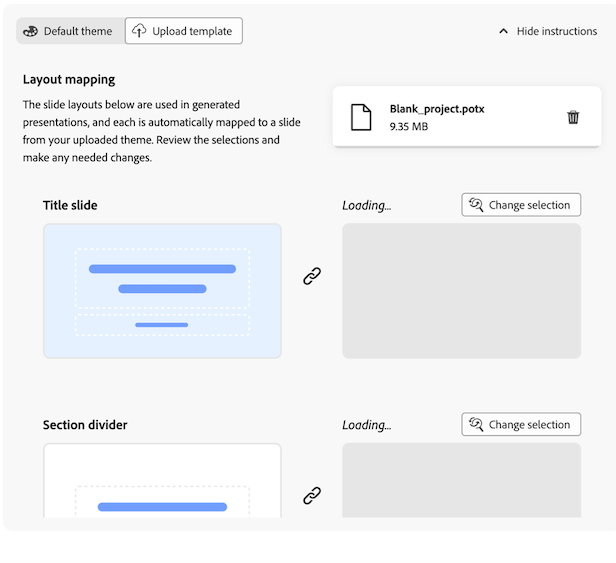
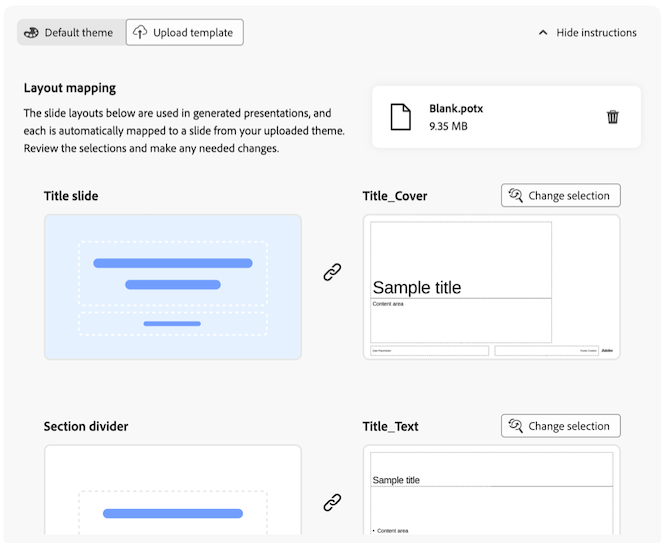
update

diff --git a/help/analysis-workspace/curate-share/generate-slides.md b/help/analysis-workspace/curate-share/generate-slides.md
@@ -9,15 +9,15 @@ hidefromtoc: yes
 ---
 # Data storytelling: Generate slide presentations from Workspace reports {#generate-powerpoint}
 
-Users with [the necessary permissions](#permission-requirements-to-generate-slides) can automatically generate .pptx presentations from Analysis Workspace projects. When generating these slide presentations, Customer Journey Analytics automatically creates a story from your data by identifying key insights and converting them into stakeholder-ready slides. 
+Users with [the necessary permissions](#permission-requirements-to-generate-slides) can automatically generate .pptx presentations based on Analysis Workspace projects. When generating these slide presentations, Customer Journey Analytics automatically creates a story from your data by identifying key insights and converting them into stakeholder-ready slides. 
 
-This automatically generated data story reduces the time, effort, and expertise required to surface findings from a Workspace project. Analysts can focus more on data exploration, while allowing Customer Journey Analytics to build and format the executive narrative and communicate the business impact to stakeholders.
+This generated data story reduces the time, effort, and expertise required to surface findings from a Workspace project. Analysts can focus more on data exploration, while allowing Customer Journey Analytics to build and format the executive narrative and communicate the business impact to stakeholders.
 
 ## Understand data stories in slide presentations
 
-Analysis Workspace uses generative AI to create a narrative that is based on your Workspace data, in a slide presentation format. 
+A **data story** is the narrative that Customer Journey Analytics creates based on your Workspace data. Using generative AI, Customer Journey Analytics identifies important themes within the panels and visualizations that you choose to include in your slide presentation. It generates insights, then goes through a deduplication and scoring process to identify a subset of insights to use to create the data story. 
 
-The following sections describe the additional value that data stories provide, the necessary elements of a project that help shape the narrative, and key elements that are included in each presentation output. 
+The following sections describe the additional value that data stories provide, the necessary elements of a project that help shape the narrative, and key elements that are included in the .pptx presentation output. 
 
 ### Additional value provided by data stories
 
@@ -31,7 +31,7 @@ Data stories supplement an analysis for a given Workspace project by:
 
 * Offering guidance on whether data is good or bad in a given context
 
-* Assessing whether certain variables are being under-valued or over-valued. 
+* Assessing whether certain variables are being under-valued or over-valued 
 
 * Calling out hidden trends, anomalies, and other contributing factors
 
@@ -43,7 +43,7 @@ Analysis Workspace creates data stories by considering the following project ele
 
 * Inter-dimension and inter-metric relationships
 
-* The individual elements that form the basis of the analysis: dimensions, metrics, filters, freeform table structure, visualizations and panels 
+* The individual elements that form the basis of the analysis (dimensions, metrics, filters, freeform table structure, visualizations, and panels) 
 
 * The names given to the panels, tables and visualizations
 
@@ -53,15 +53,11 @@ Analysis Workspace creates data stories by considering the following project ele
 
 ### Presentation elements of a data story
 
-Data stories consist of an executive summary slide, detail slides, and section dividers.
+Data stories consist of a title slide, executive summary slide, detail slides, and section dividers.
 
-Customer Journey Analytics identifies important themes within the panels and visualizations that you choose to include in your presentation. These themes comprise the overarching narrative, or data story, that is created.  
+**Title slide:** Shows the title and presenter name that you specify. Information shows in the speaker notes that describes the process of how the theme and narrative were created, how many insights were generated and used, and which panels were used.
 
-To create the theme and narrative, Customer Journey Analytics generates insights, then uses a subset of those insights after a deduplication and scoring process. 
-
-**Executive summary:** Prioritizes the highest-value insights and crafts an overarching story between 1 and 5 sentences in length.
-
-**Title slide:** Shows the title that you specify. Information is shown in the speaker notes area describing how 
+**Executive summary:** Prioritizes the highest-value insights and crafts an overarching story that is between 1 and 5 sentences in length.
 
 **Detail slides:** Generates insights related to any tables, panels, or visualizations in a Workspace project. Insights consist of trends, seasonalities, anomalies, and correlations.
 
@@ -101,12 +97,12 @@ To create the theme and narrative, Customer Journey Analytics generates insights
    |---------|----------|
    | **[!UICONTROL Cover title]** | Specify a title for the presentation. This title appears on the title slide of the presentation.  | 
    | **[!UICONTROL Include presenter name]** | Specify the name of the presenter. This name appears on the title slide of the presentation, below the cover title. | 
-   | **[!UICONTROL Panels and visualizations to include]** | Choose the panels and visualization you want to include in the presentation. You can include up to 50 visualizations.<p>Most panels and visualizations are supported. For information about unsupported panels and visualization, see [Unsupported project elements and features](#unsupported-project-elements-and-features).</p> | 
-   | **[!UICONTROL Panel and visualization descriptions]** | | 
-   | **[!UICONTROL Annotations]** | | 
+   | **[!UICONTROL Panels and visualizations to include]** | Choose the panels and visualization that you want to include in the presentation. You can include up to 50 visualizations.<p>Most panels and visualizations are supported. For information about unsupported panels and visualization, see [Unsupported project elements and features](#unsupported-project-elements-and-features).</p> | 
+   | **[!UICONTROL Panel and visualization descriptions]** | Choose whether to include panel and visualization descriptions in your generated slide presentation. | 
+   | **[!UICONTROL Annotations]** | Choose whether annotations are visible in your generated slide presentation. For more information about annotations, see [Annotations overview](/help/components/annotations/overview.md).  | 
    | **[!UICONTROL Emphasize components]** | Choose up to 5 metrics and 5 dimensions from your visualizations that you want to emphasize in the presentation. The components you choose are ranked higher and given more weight when the themes and overarching narrative of the data story is created. <p>When no emphasis is applied, components show in presentations as follows:<ul><li>**Metrics and dimensions:** Italics</li><li>**Dimension items:** Quotation marks</li></ul></p><p>When emphasis is applied, components show in presentations as follows:</p><ul><li>**Metrics and dimensions:** Italics and bold</li><li>**Dimension items:** Bold when the corresponding dimension is emphasized<p>A color is also applied to the dimension item when the dimension item is highlighted in the chart.</p></li></ul> | 
 
-1. (Conditional) Select **[!UICONTROL Default theme]** if you want to quickly generate slides in fewer steps, and if a corporate theme is not required for your slide presentation. 
+1. (Conditional) Select **[!UICONTROL Default theme]** if you want to generate slides in fewer steps, and if a corporate theme is not required for your slide presentation. 
 
    Simply choose the color theme of your presentation by selecting the desired color.
 
@@ -148,20 +144,23 @@ To create the theme and narrative, Customer Journey Analytics generates insights
         
         Select **[!UICONTROL Browse]**, then browse to and select your custom template from the file system. 
         
-        Make sure that the uploaded file has master layouts with the following names: "Title_Slide", "Section_Divider", "Title_Text", "Title_Chart", "Title_Two_Content_Mixed", "Title_Three_Content_Mixed"
+        Make sure that the uploaded file has master layouts with the following names: "Title_Slide," "Section_Divider," "Title_Text," "Title_Chart," "Title_Two_Content_Mixed," "Title_Three_Content_Mixed."
 
         .pptx and .potx files up to 25MB in size are supported.
 
+     1. In the **[!UICONTROL Layout mapping]** section, each slide layout that is used in generated presentations is automatically mapped to a slide from your uploaded theme. Review the selections to make sure they are correct.
+
+        ![Layout mapping custom template](assets/generate-slides-layout-mapping-custom-template.png)
+     
+     1. (Conditional) If a slide layout is mapped incorrectly, select **[!UICONTROL Change selection]** above the slide that was chosen from your uploaded presentation, then choose the slide that matches the layout. 
+
+        Repeat this process for each slide that was incorrectly mapped.
+
 1. Select **[!UICONTROL Export PPT]**.
 
-1. (Recommended) Review and edit the .ppt presentation and make any needed changes, as described in the following section, [Edit slides from a previously generated presentation](#edit-slides-from-a-previously-generated-presentation).
+   The .pptx presentation is automatically downloaded to your workstation. 
 
-## Edit slides from a previously generated presentation
-
-
-## Download a generated .pptx presentation
-
-
+1. (Recommended) Open the .pptx presentation and review it. Make any needed changes.
 
 ## Permission requirements to generate slides
 
